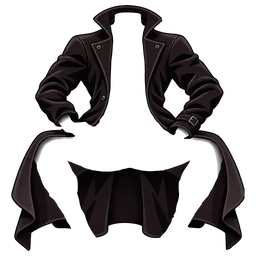
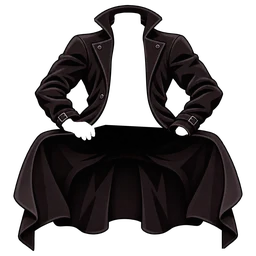
Плащ Боцмана: перед поверх героя, спинка за ногами (берцы поверх)
Claude-Session: https://claude.ai/code/session_01XtpZhZabEYUcJEQKQgYpHe

diff --git a/src/client/art/rig.tsx b/src/client/art/rig.tsx
@@ -267,6 +267,16 @@ function wornIn(worn: Worn, slot: string): WearId | null {
 
 /** a worn piece of clothing, if the item in that slot has art (the FACE slot is drawn on the head, over the eyes) */
 /** `hat`: a head thing — "under" the hair (headphones) or "over" it (hats that cut the hair, HAIR_CUT_HATS) */
+/** clothes with a part behind the legs (a long coat's back, over the seat, under the body): its own picture */
+const WEAR_BACK: Record<string, string> = { "coat-botsman": "coat-botsman-back" };
+function WearBack() {
+  const id = wornIn(useContext(WornCtx), "SHIRT");
+  const back = id ? WEAR_BACK[id] : undefined;
+  if (!back || !(back in WEARS)) return null;
+  const f = WEARS[back];
+  return <image href={`/assets/hero/wear/${back}.webp?v=${ART_VER.wear}`} x={f.x} y={f.y} width={f.w} height={f.h} preserveAspectRatio="none" />;
+}
+
 function Wear({ slot, hat }: { slot: string; hat?: "under" | "over" }) {
   const id = wornIn(useContext(WornCtx), slot);
   if (!id) return null;
@@ -595,6 +605,7 @@ function RigBody({ seat, look, worn, seatOnly, edit }: { seat?: boolean | number
       {edit && <OutlineDefs />}
       <ellipse cx="500" cy="1282" rx="400" ry="30" fill="rgba(0,0,0,0.3)" />
       {seat !== undefined && seat !== false && <Seat level={typeof seat === "number" ? seat : 0} />}
+      <WearBack />
       {/* torso breathes; arms and head ride along in a second group with the same animation */}
       {/* the torso layer carries the legs too; only the chest breathes visibly (origin at the hips) */}
       <g className="rig-breath">

diff --git a/src/client/preload.ts b/src/client/preload.ts
@@ -9,7 +9,7 @@ import { ASSET_FILES } from "./asset-manifest.ts";
 import { ROOM_BACKDROP, ROOM_BG } from "../content/home-scene.ts";
 
 /** cache-busting versions of redrawn art (bump when the picture changes) */
-export const ART_VER = { heroPart: 12, hair: 8, wear: 27, items: 33, pepe: 2, tattoo: 17, monitor: 2, chair: 7, shop: 3 } as const;
+export const ART_VER = { heroPart: 12, hair: 8, wear: 28, items: 33, pepe: 2, tattoo: 17, monitor: 2, chair: 7, shop: 3 } as const;
 
 /** the URL a screen really requests for a file from the manifest */
 export function usedUrl(path: string): string {

diff --git a/src/client/art/rig-look.ts b/src/client/art/rig-look.ts
@@ -344,10 +344,17 @@ export const WEAR_FIT = {
   },
   "coat-botsman": {
     "slot": "SHIRT",
-    "x": 0.0,
-    "y": 210.0,
-    "w": 1002,
-    "h": 1060
+    "x": 4.0,
+    "y": 207.5,
+    "w": 996,
+    "h": 1068
+  },
+  "coat-botsman-back": {
+    "slot": "SHIRT",
+    "x": 80.0,
+    "y": 726.0,
+    "w": 845,
+    "h": 538
   }
 } as const;
 /** head things that cut the hair under them (the rest are worn over the hair) */

diff --git a/src/client/asset-manifest.ts b/src/client/asset-manifest.ts
@@ -1228,6 +1228,7 @@ export const ASSET_FILES: string[] = [
  "/assets/hero/wear/cap-moon.webp",
  "/assets/hero/wear/chain-cuban.webp",
  "/assets/hero/wear/cigarette.webp",
+ "/assets/hero/wear/coat-botsman-back.webp",
  "/assets/hero/wear/coat-botsman.webp",
  "/assets/hero/wear/crown-cash.webp",
  "/assets/hero/wear/gold-chain.webp",

diff --git a/tools/rig/build-look.py b/tools/rig/build-look.py
@@ -79,7 +79,9 @@ WEAR_SLOT = {"tee-white": "SHIRT", "tee-pump": "SHIRT", "jeans": "PANTS", "short
              # Вадим's things (image edits of Гаркуша's layers, their alpha kept; the tie drawn on the hero)
              "jacket-vadim": "SHIRT", "pants-vadim": "PANTS", "shoes-vadim": "SHOES", "tie-vadim": "ACCESSORY",
              # Боцман's things (drawn by the artist on the rig canvas)
-             "pants-botsman": "PANTS", "boots-botsman": "SHOES", "coat-botsman": "SHIRT"}
+             "pants-botsman": "PANTS", "boots-botsman": "SHOES", "coat-botsman": "SHIRT",
+             # not an item: the coat's back, drawn behind the legs (rig.tsx WEAR_BACK)
+             "coat-botsman-back": "SHIRT"}
 # head things worn over the hair (no hair variants cut under them)
 OVER_HAIR = {"headphones-vostok", "crown-cash", "bandana-hodl", "cap-captain"}
 # of those: drawn on top of the hair (the crown sits on it, the bandana is tied over it) — the hair is not cut
